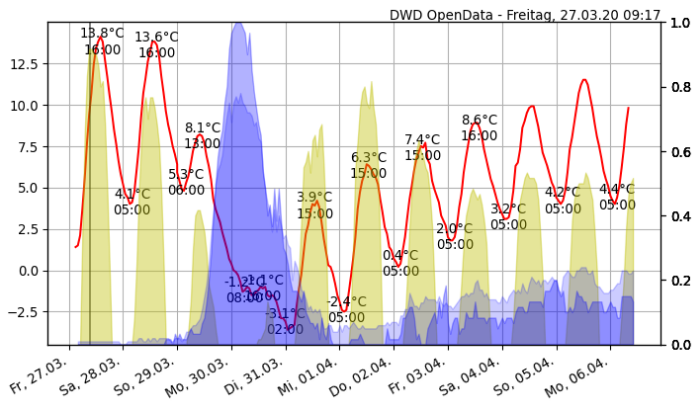
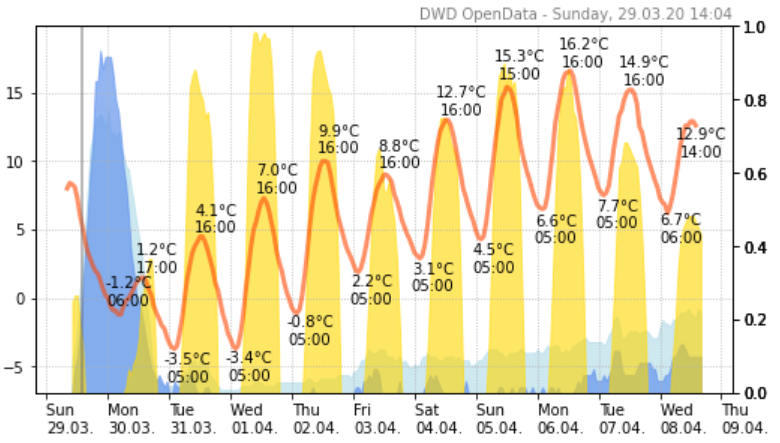
Style upgrades

diff --git a/weather_plot.py b/weather_plot.py
@@ -11,6 +11,7 @@ import datetime
 from matplotlib.dates import MO, TU, WE, TH, FR, SA, SU
 from matplotlib.dates import WeekdayLocator
 from matplotlib.dates import DateFormatter
+from matplotlib.ticker import MaxNLocator
 
 from dateutil import tz
 import time
@@ -110,7 +111,6 @@ class DwdForecastPlot:
 
 
         my_dpi=96
-        # plt.style.use("seaborn-talk")
         plt.figure(figsize=(800/my_dpi, 480/my_dpi), dpi=my_dpi)
         fig, ax1 = plt.subplots()
         fig.set_size_inches(800/my_dpi, 480/my_dpi)
@@ -118,7 +118,7 @@ class DwdForecastPlot:
         ax1.set_zorder(10)
         ax1.patch.set_visible(False)
         title="DWD OpenData - "+time.strftime("%A, %d.%m.%y %H:%M")
-        ax1.text(1, 1, title, horizontalalignment='right', verticalalignment='bottom', transform=ax1.transAxes)
+        ax1.text(1, 1.01, title, horizontalalignment='right', color='gray', verticalalignment='bottom', transform=ax1.transAxes)
 
         ax3=ax1.twinx()
         ax3.set_zorder(1)
@@ -136,13 +136,13 @@ class DwdForecastPlot:
         ax2.fill_between(x,0,y_sun,color='gold',alpha=0.6)
         ax2.set_ylim(0,1)
         
-        ax1.plot(xl,y,alpha=1.0,color='firebrick')
-        ax1.grid(True)
+        ax1.plot(xl,y,alpha=0.6,linewidth=3, color='orangered')
+        ax1.grid(True, linestyle='dotted')
         # ax1.set_axisbelow(False)
 
         self.annot_local_minmax(xl,y,ax1)
 
-        ax1.axvline(datetime.datetime.now(), color='dimgray', alpha=1)
+        ax1.axvline(datetime.datetime.now(), color='dimgray', alpha=0.6)
 
         lim=ax1.get_ylim()
         d=lim[1]-lim[0]
@@ -152,14 +152,19 @@ class DwdForecastPlot:
         loc = WeekdayLocator(byweekday=(MO,TU,WE,TH,FR,SA,SU))  #, tz=tz)
         ax1.xaxis.set_major_locator(loc)
 
-        better_formatter = DateFormatter('%a, %d.%m.')
+        better_formatter = DateFormatter('%a  \n%d.%m.')
         ax1.xaxis.set_major_formatter(better_formatter)
         fig.autofmt_xdate()
+        plt.setp( ax1.xaxis.get_majorticklabels(), rotation=0)
+
+        for tick in ax1.xaxis.get_major_ticks():
+            tick.label1.set_horizontalalignment('left')
+        # ax1.xaxis.set_major_locator(MaxNLocator(prune='both'))
+        
         if image_file is not None:
             plt.savefig(image_file,dpi=my_dpi,bbox_inches='tight')
         if close_plot is True:
             plt.close('all')  # otherwise auto-refresh of web-server creates infinite number of figures...
-        return ax1
 
 
 if __name__ == '__main__':
